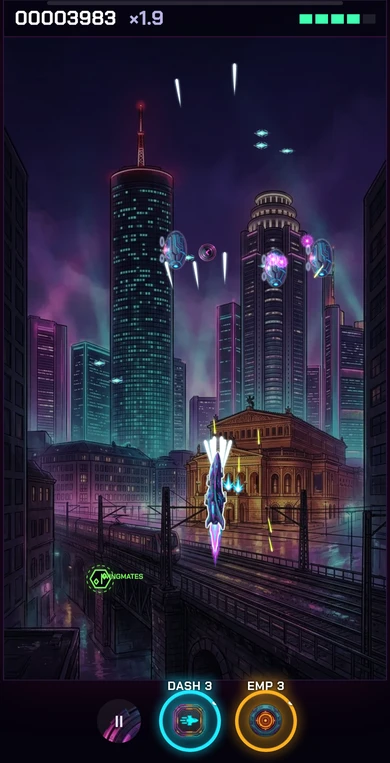
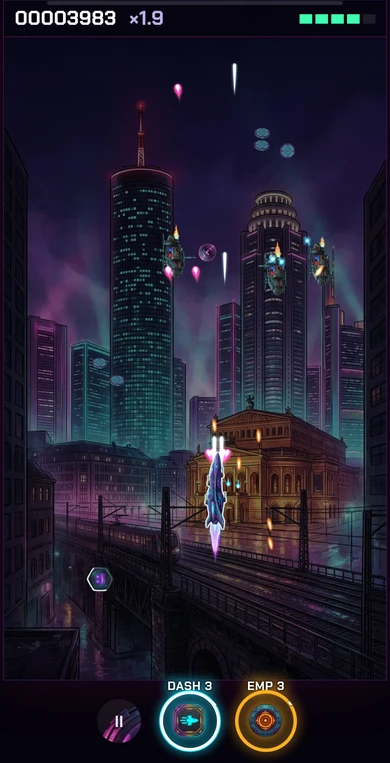
Nightrun W215: critic round 2, orange enemy needles, half muzzle burst, owner pickup pictures only, bigger foes, darker phone backdrop

diff --git a/games-src/nightrun/parts/render/pure.js b/games-src/nightrun/parts/render/pure.js
@@ -9,11 +9,13 @@
    arming circles, hit flashes, tier glow, screen flash / glitch, floating text, edge pulses. Bosses and gate pylons have no single sheet
    drawn here yet: they keep the old draw. Gameplay is not touched (the sim never calls render). ---------- */
 if(RET.purelook===undefined)RET.purelook=!/[?&]purelook=0/.test(location.search);   // W215: the default flight look
-const PURL=window.PURL={K:90/520,get PK(){return wcv!==cv?1.6:1.4;},   // W215/W219: player 1.6x the enemies' texel scale on the phone, 1.4x on PC
+const PURL=window.PURL={K:90/520,get PK(){return wcv!==cv?1.6:1.3;},   // W215/W219: player 1.6x the enemies' texel scale on the phone, 1.3x on PC
+  pl(){const s=ART.ANIM.s['ship-'+shipDef().id+'/flame'];return(s?s[2]:260)*this.K*this.PK;},   // the player's drawn length (world units)
   WARM:/^(beat|disc|flame|orbit|shell|storm|swarm)$/,   // W215: weapon shot pictures in the enemy-shot hues (lime / yellow / orange): drawn as the cool standard shot instead
-  dim(b){const D=this.DM||(this.DM=new Map());let c=D.get(b);if(c)return c;   // W219: backdrop layers only, once per picture: brightness .65, saturate .85, so the play layer is the brightest thing
-    c=document.createElement('canvas');c.width=b.width;c.height=b.height;const x=c.getContext('2d');x.filter='brightness(.65) saturate(.85)';x.drawImage(b,0,0);D.set(b,c);return c;},
-  cover(b,w,h){b=this.dim(b);const s=Math.max(w/b.width,h/b.height),sw=w/s,sh=h/s;ctx.drawImage(b,(b.width-sw)/2,(b.height-sh)/2,sw,sh,0,0,w,h);},
+  dim(b,v){const D=this.DM||(this.DM=new Map());let c=D.get(b);if(c)return c;   // W219: backdrop layers only, once per picture: brightness .65, saturate .85, so the play layer is the brightest thing
+    c=document.createElement('canvas');c.width=b.width;c.height=b.height;const x=c.getContext('2d');x.filter=`brightness(${v||.65}) saturate(.85)`;x.drawImage(b,0,0);D.set(b,c);return c;},
+  cover(b,w,h){b=this.dim(b,.55);   // the phone painting is brighter than the PC strips: a lower value lands it at the PC's level
+   const s=Math.max(w/b.width,h/b.height),sw=w/s,sh=h/s;ctx.drawImage(b,(b.width-sw)/2,(b.height-sh)/2,sw,sh,0,0,w,h);},
   tile(b,y,h,scroll,par,keep){if(!keep)b=this.dim(b);const tw=h*b.width/b.height,off=(scroll*par)%(2*tw);   // every other tile mirrored: no seam
     for(let j=Math.floor(off/tw);j*tw-off<W;j++){const x=j*tw-off;if(x+tw<=0)continue;
       if(j&1){ctx.save();ctx.translate(x+tw,y);ctx.scale(-1,1);ctx.drawImage(b,0,0,tw,h);ctx.restore();}else ctx.drawImage(b,x,y,tw,h);}},
@@ -27,7 +29,7 @@ const PURL=window.PURL={K:90/520,get PK(){return wcv!==cv?1.6:1.4;},   // W215/W
     if(nr)this.tile(nr,H-130,130,scroll,1.1,1);},   // the near strip keeps full value (play-layer depth)
   sheet(e){const M=ENEMY_ART[FOEART.id(e)];if(!M||e.type==='gate')return null;const m=M.native?{s:M.s||'e'+e.type,k:M.k||4.2}:FOEART.map(e);if(!m||!m.s)return null;
     const b='ship-'+m.s+'/',v=e.arm&&ART.ANIM.s[b+'volley']&&ART.anim(b+'volley'),key=b+(v?'volley':'flame');if(!ART.ANIM.s[key]||!ART.anim(key))return null;ART.anim(b+'death');return{m,key};},
-  foe(e,t){const q=this.sheet(e);if(!q)return false;const{m,key}=q,s=ART.ANIM.s[key],fw=s[2],w=clamp(m.w||e.r*(m.k||4.2),this.K*fw*.8,this.K*fw*1.25),sc=w/fw,rot=m.rot?m.rot(e,t):0;
+  foe(e,t){const q=this.sheet(e);if(!q)return false;const{m,key}=q,s=ART.ANIM.s[key],fw=s[2],w=clamp(m.w||e.r*(m.k||4.2),Math.max(this.K*fw*.8,this.pl()*.55),Math.max(this.K*fw*1.25,this.pl()*.55)),sc=w/fw,rot=m.rot?m.rot(e,t):0;
     ctx.save();ctx.translate(e.x,e.y);if(rot)ctx.rotate(rot);if(m.gnd)ctx.translate(0,e.r-sc*s[3]/2);ART.drawAnim(ctx,key,(e.t||0)+eb_(e),0,0,sc,false);ctx.restore();
     e._fs=sc;e._fa=FOEART.fr;e._fk=FOEART.fr;return true;},
   player(t){if(G.dead)return;const id=shipDef().id,key='ship-'+id+'/flame',k=this.K*this.PK;ctx.save();ctx.translate(P.x,P.y);ctx.rotate(P.tilt);
@@ -44,18 +46,21 @@ const PURL=window.PURL={K:90/520,get PK(){return wcv!==cv?1.6:1.4;},   // W215/W
     const d=Math.max(1.2*(window.devicePixelRatio||1),1.6)/ps,W_=cw/ps,H_=ch/ps;
     for(const[x,y]of[[-d,0],[d,0],[0,-d],[0,d],[-d*.7,-d*.7],[d*.7,-d*.7],[-d*.7,d*.7],[d*.7,d*.7]])ctx.drawImage(O[1],x-W_/2,y-H_/2,W_,H_);
     ctx.drawImage(O[0],-W_/2,-H_/2,W_,H_);},
-  pic(n,x,y,w,ang,hk){const b=ART.bm[n];if(!b){if(b===undefined)ART.load(n);return false;}const h=w*b.height/b.width*(hk||1);ctx.save();ctx.globalCompositeOperation='lighter';ctx.translate(x,y);if(ang)ctx.rotate(ang);ctx.drawImage(b,-w/2,-h/2,w,h);ctx.restore();return true;},
+  hot(n,v){const b=ART.bm[n];if(!b){if(b===undefined)ART.load(n);return null;}const c=document.createElement('canvas');c.width=b.width;c.height=b.height;const x=c.getContext('2d');x.filter=v==='w'?'saturate(0) brightness(1.6)':'hue-rotate(-55deg) saturate(2.6) brightness(1.2)';x.drawImage(b,0,0);return ART.bm[n+'~'+v]=c;},   // ~o orange-red, ~w white (made once per picture)
+  pic(n,x,y,w,ang,hk){const v=/~([ow])$/.exec(n),b=v?(ART.bm[n]||this.hot(n.slice(0,-2),v[1])):ART.bm[n];if(!b&&v)return false;if(!b){if(b===undefined)ART.load(n);return false;}const h=w*b.height/b.width*(hk||1);ctx.save();ctx.globalCompositeOperation='lighter';ctx.translate(x,y);if(ang)ctx.rotate(ang);ctx.drawImage(b,-w/2,-h/2,w,h);ctx.restore();return true;},
   shots(){for(const b of G.pb){const a=(b.vx||b.vy)?Math.atan2(b.vy,b.vx):0,wn=b.wid&&!this.WARM.test(b.wid)?'fx-w-'+b.wid+'-bullet':null;   // player shots keep the cool hues (cyan / white / violet); enemy shots own lime to orange
       if(wn&&this.pic(wn,b.x,b.y,44,a))continue;
       const n=b.hv?'fx-shot-hv':b.ec?'fx-shot-ec':'fx-shot-std',w=b.hv?52:b.ec?40:(b.len||(b.big?22:20))*2.4*(b.pf?1.3:1);
       if(this.pic(n,b.x,b.y,w,a,1.7)&&n==='fx-shot-std')this.pic(n,b.x,b.y,w*.8,a,1);}   // body thicker, then the core again additively   // the thin standard streak twice (additive): bright enough to read at game size
     for(const b of G.eb){const a=Math.atan2(b.vy||0,b.vx||-1);
       if(b.hm>0&&this.pic('fx-orb-homing',b.x,b.y,b.r*3.6))continue;
-      if(b.k==='n'&&this.pic('fx-bullet-needle',b.x,b.y,b.r*10,a,2.4)){this.pic('fx-bullet-needle',b.x,b.y,b.r*10,a,2.4);continue;}   // W215: the thin needle twice and longer, it vanished at game size
+      if(b.k==='n'&&this.pic('fx-bullet-shell',b.x,b.y,b.r*7,a,.38)){this.pic('fx-bullet-needle~w',b.x,b.y,b.r*6,a,1.4);continue;}   // W219: needle = the owner's orange shell drawn as a long bolt (the shell family reads best) with the needle, whitened once, as its hot core
       if(b.k==='r'&&this.pic('fx-bullet-rocket',b.x,b.y,b.r*6,a))continue;
       if(b.k&&this.pic('fx-bullet-shell',b.x,b.y,b.r*4,a))continue;
       this.pic('fx-bullet-enemy',b.x,b.y,b.r*3.4);}},
-  pickups(t){for(const p of G.pk){const y=p.y+Math.sin(p.bob)*3;if(p.t==='pw'){PW.pickup(p,y,t);continue;}ctx.save();ctx.translate(p.x,y);pkPaint(p,t);ctx.restore();}},
+  coin(p,y,t){const k='pk-coin/spin',s=ART.ANIM.s[k];if(!s||!ART.anim(k))return false;ART.drawAnim(ctx,k,t+p.bob,p.x,y,22/s[2],false);return true;},   // W219: shards as the owner's spinning coin: it reads as a pickup, not a bullet
+  pickups(t){for(const p of G.pk){const y=p.y+Math.sin(p.bob)*3;if(p.t==='pw'){const o=ART.sp('pk-'+p.k,40);if(!o&&ART.bm['pk-'+p.k]===undefined)ART.load('pk-'+p.k);if(o){ctx.save();ctx.translate(p.x,y);ART.put(o,0,0,Math.sin(t*2+p.bob)*.08);ctx.restore();}continue;}   // W219: the owner's power-up picture only (no hex, ring, glow or caption)
+      if(p.t==='shard'&&this.coin(p,y,t))continue;ctx.save();ctx.translate(p.x,y);pkPaint(p,t);ctx.restore();}},
   draw(t,dt){const PT=wcv!==cv;for(const c of[vctx,wctx]){c.imageSmoothingEnabled=true;c.imageSmoothingQuality='high';}
     if(PT){ctx=vctx;ctx.setTransform(VS,0,0,VS,0,0);this.bg(true,G.scroll);ctx=wctx;ctx.setTransform(S,0,0,S,0,0);ctx.clearRect(0,0,W,H);}
     else{ctx=vctx;ctx.setTransform(S,0,0,S,0,0);}
@@ -66,6 +71,7 @@ const PURL=window.PURL={K:90/520,get PK(){return wcv!==cv?1.6:1.4;},   // W215/W
     FOEART.fr++;for(const e of G.en)if(!this.foe(e,t))drawEnemy(e,t);   // bosses / gate pylons: the old draw (no single sheet here yet)
     if(ART.gh.length)ART.ghosts();
     this.shots();
+    for(const q of ART.fx)if(!q._h&&/muzzle/.test(q.k)){q.sz*=.5;q._h=1;}   // W219: the player's muzzle burst at half size (render-only fx list)
     ART.fxDraw();
     this.player(t);
     if(G.empT>0)AH.pic('fx-pw-bomb-pulse',(0.6-G.empT)*2800,P.x,P.y,0,Math.min(1,G.empT*2.2));

diff --git a/games-src/nightrun/review-shots/W215/README.md b/games-src/nightrun/review-shots/W215/README.md
@@ -27,16 +27,27 @@ error (Browser.setWindowBounds)`) before the game is involved.
 - The backdrop (bg, far, mid) is drawn from a copy made once per picture with brightness .65 and saturate .85. The near strip and
   every sprite are not filtered. The shots above are from round 2. Render-only change: the sim does not call render, so simhunt is unchanged.
 
+## Round 3: critic W219 round 2 (owner-art 5, grayscale 6, silhouette 5, find-player 7, bullets 4, clutter 6, benchmark 4)
+- Enemy needles are the owner's orange shell picture drawn as a long bolt, with the needle picture (made white once) as a hot core.
+  They are in the orange family of the enemy shells and no longer look like the white player streaks.
+- The player muzzle burst (`muzzle` / `w-*-muzzle` fx) is drawn at half size. It is render-only: the fx list is not part of the sim.
+- Shards are the owner's spinning `pk-coin` sheet (22 px), so they read as pickups, not teal diamonds.
+- Power-up pickups show only the owner's `pk-<kind>` picture: no hex, dashed ring, glow or caption.
+- Enemies are at least 0.55x the player's drawn length. The player is 1.3x the enemies' texel scale on PC and 1.6x on the phone.
+- The phone backdrop is at brightness .55 (it is a brighter painting than the PC strips). The PC backdrop stays at .65.
+- The "B" letter (stage1fun) is still drawn in the field by code. That is not this task's file.
+Shots above are from round 3 (same seed and moment; the shot renders twice so lazily loaded pictures show).
+
 ## Strict critic pass (game-look). Benchmark: Ref A, https://shared.akamai.steamstatic.com/store_item_assets/steam/apps/347160/ss_adc04f49419d282ee67a894af25cfdf5bed88439.1920x1080.jpg
 
 | # | test | score | what still fails |
 |---|---|---|---|
-| 1 | Owner art only | 6 | Pickups are still drawn by code in the play field: the cyan "B" letter and the green WINGMATES hex with its caption (`pkPaint`, `PW.pickup`; not in this task's scope). The player outline is code, but it matches the benchmark. |
+| 1 | Owner art only | 7 | Power-ups and shards are owner pictures now. The cyan "B" letter (stage1fun) is still code text in the field. The player outline is code, but it matches the benchmark. |
 | 2 | Grayscale | 8 | With the backdrop at .65 value, the player, the enemies and every shot are the brightest things on screen. |
 | 3 | Silhouette | 7 | The long player dart and the round drones/gunship read as different shapes. Enemies are small next to Ref A's. |
 | 4 | Find the player (phone) | 8 | The ship is about 1/7 of the screen width, and its outline, engine light and fan of white shots mark it at once. The ship's own colours are still blue on a blue city. |
-| 5 | Bullets | 7 | Player shots are white/cyan and enemy shots lime/yellow; nothing shares a hue. The yellow needles are still thin on the phone, and the white player streaks have the same shape as the needles. |
-| 6 | Clutter | 8 | Field marks: "B" and WINGMATES (2). The HUD is at the edges. |
+| 5 | Bullets | 7 | Player shots are white, cyan and pink; enemy shots are orange bolts with a white core and lime orbs. The pink pulse teardrops are the player's and the closest to a shared hue. |
+| 6 | Clutter | 8 | Field marks: the "B" letter (1). The HUD is at the edges. |
 | 7 | Benchmark side by side | 6 | Ref A has a few big, bright, outlined actors on a quiet backdrop. The backdrop is now quieter, but the enemies are still small, and no shot reaches Ref A's chunky, glowing bullets. |
 
 Not every row is at 7 or higher. Rows 1 and 7 are below, and fixing them is outside this task:
